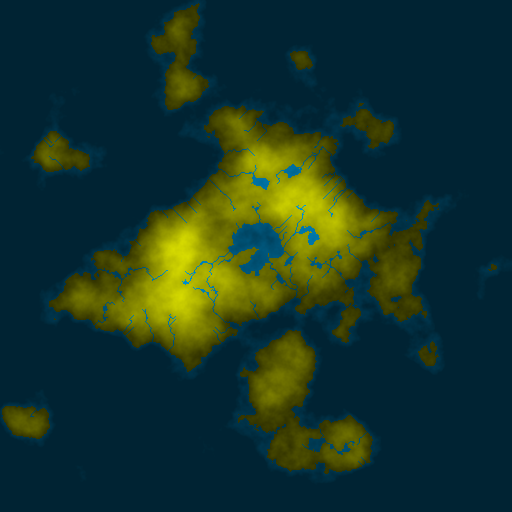
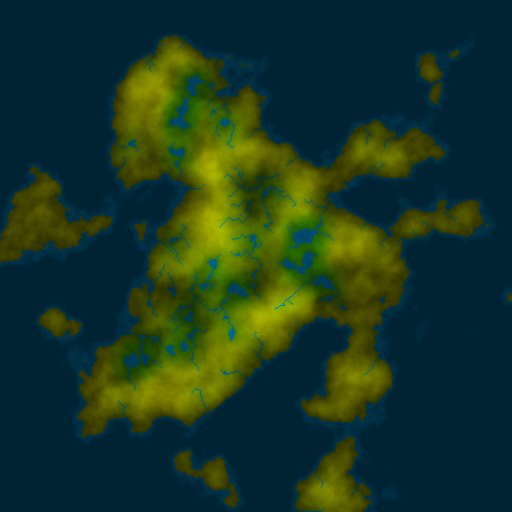
Added biomes and loading maps from images

diff --git a/TerrainMap.py b/TerrainMap.py
@@ -5,6 +5,7 @@ from MapPixel import MapPixel
 import random
 import math
 from Queue import Queue
+import time
 
 class TerrainMap:
     """A map, duh"""
@@ -41,6 +42,7 @@ class TerrainMap:
 
     def generate_rivers(self, start_height, frequency):
         print "Generating rivers..."
+        start_time = time.time()
         river_count = 0
         for x in range(len(self.mapArray)):
             for y in range(len(self.mapArray)):
@@ -51,17 +53,30 @@ class TerrainMap:
                         path = self.reconstruct_path(came_from, (x, y), goal)
                         for location in path:
                             self.mapArray[location[0]][location[1]].isWater = True
-        # print str(river_count) + " rivers created"
+        print "River generation completed. Elapsed time: " + str(time.time() - start_time)
+        print str(river_count) + " rivers created."
+
+    def calculate_biomes(self):
+        print "Calculating biomes..."
+        start_time = time.time()
+        for x in range(len(self.mapArray)):
+                for y in range(len(self.mapArray)):
+                    self.mapArray[x][y].calculate_biome()
+        print "Biomes calculated. Elapsed time: " + str(time.time() - start_time)
 
     def calculate_temperature(self):
+        print "Calculating temperature..."
+        start_time = time.time()
         #simple north = cold model (boring)
         for x in range(len(self.mapArray)):
             for y in range(len(self.mapArray)):
                 self.mapArray[x][y].temperature = float(y) / float(self.resolution)
                 self.mapArray[x][y].temperature *= 1 - (self.mapArray[x][y].height * 0.9)
+        print "Temperature calculated. Elapsed time: " + str(time.time() - start_time)
 
     def calculate_rainfall(self):
         print "Calculating rainfall..."
+        start_time = time.time()
         area = 40
         amount = 0.04
         for x in range(len(self.mapArray)):
@@ -81,6 +96,7 @@ class TerrainMap:
         for x in range(len(self.mapArray)):
             for y in range(len(self.mapArray)):
                 self.mapArray[x][y].rainfall = min(self.mapArray[x][y].rainfall, 1.0)
+        print "Rainfall calculated. Elapsed time: " + str(time.time() - start_time)
 
     def fill_map_array(self):
         for x in range(len(self.heightArray)):
@@ -94,6 +110,22 @@ class TerrainMap:
         for x in range(len(self.mapArray)):
             for y in range(len(self.mapArray)):
                 pixels[x, y] = self.mapArray[x][y].get_greyscale_color()
+        return img
+
+    def get_water_map_image(self):
+        img = Image.new('RGB', (len(self.mapArray), len(self.mapArray)), "black")
+        pixels = img.load()
+        for x in range(len(self.mapArray)):
+            for y in range(len(self.mapArray)):
+                pixels[x, y] = (0, 0, 0) if self.mapArray[x][y].isWater else (255, 255, 255)
+        return img
+
+    def get_biome_map_image(self):
+        img = Image.new('RGB', (len(self.mapArray), len(self.mapArray)), "black")
+        pixels = img.load()
+        for x in range(len(self.mapArray)):
+            for y in range(len(self.mapArray)):
+                pixels[x, y] = self.mapArray[x][y].get_biome_map_color()
         return img
 
     def get_rainfall_map_image(self):
@@ -126,6 +158,44 @@ class TerrainMap:
         print "Sea level: " + str(self.seaLevel)
         print "Map size: " + str(len(self.mapArray)) + "x" + str(len(self.mapArray[0]))
         print "**************************************"
+
+    def load_height_map(self, path):
+        self.heightArray = list()
+        height_map = Image.open(path)
+        pixels = height_map.load()
+        for x in range(height_map.size[0]):
+            self.heightArray.append(list())
+            for y in range(height_map.size[1]):
+                self.heightArray[x].append(float(pixels[x, y][0]) / 255.0)
+        self.resolution = len(self.heightArray)
+        self.mapArray = list()
+        self.fill_map_array()
+        print "Height map loaded."
+
+    def load_water_map(self, path):
+        water_map = Image.open(path)
+        pixels = water_map.load()
+        for x in range(self.resolution):
+            for y in range(self.resolution):
+                water = True if pixels[x, y][0] < 100 else False
+                self.mapArray[x][y].isWater = water
+        print "Water map loaded."
+
+    def load_rainfall_map(self, path):
+        rainfall_map = Image.open(path)
+        pixels = rainfall_map.load()
+        for x in range(self.resolution):
+            for y in range(self.resolution):
+                self.mapArray[x][y].rainfall = float(pixels[x, y][0]) / 255.0
+        print "Rainfall map loaded."
+
+    def load_temperature_map(self, path):
+        temperature_map = Image.open(path)
+        pixels = temperature_map.load()
+        for x in range(self.resolution):
+            for y in range(self.resolution):
+                self.mapArray[x][y].temperature = float(pixels[x, y][0]) / 255.0
+        print "Temperature map loaded."
 
     def find_river_path(self, start):
         frontier = Queue()
@@ -162,7 +232,6 @@ class TerrainMap:
             if iterations >= self.MAX_ITERATIONS:
                 break
             current = came_from[current]
-            print str(current)
             path.append(current)
         path.reverse()
         return path

diff --git a/MapPixel.py b/MapPixel.py
@@ -5,6 +5,7 @@ import colorsys
 class MapPixel:
     """A single unit of map terrain"""
 
+    TUNDRA, BOREAL_FOREST, COLD_DESERT, WOODLAND, TEMPERATE_FOREST, TEMPERATE_RAINFOREST, SUBTROPICAL_DESERT, SAVANNA, TROPICAL_RAINFOREST = range(9)
     waterColor = (0.55, 1.0, 0.2)
     landColor = (0.17, 1.0, 0.1)
 
@@ -14,7 +15,53 @@ class MapPixel:
         self.seaLevel = sea_level
         self.rainfall = 0.0
         self.temperature = 0.0
+        self.biome = self.TUNDRA
         self.isWater = True if self.height <= self.seaLevel else False
+
+    def calculate_biome(self):
+        if self.temperature < 0.15:
+            self.biome = self.TUNDRA
+        elif self.temperature < 0.58:
+            if self.rainfall < 0.1:
+                self.biome = self.COLD_DESERT
+            elif self.rainfall < 0.2:
+                self.biome = self.WOODLAND
+            elif self.temperature < 0.2:
+                self.biome = self.BOREAL_FOREST
+            elif self.rainfall < 0.35:
+                self.biome = self.TEMPERATE_FOREST
+            else:
+                self.biome = self.TEMPERATE_RAINFOREST
+        else:
+            if self.rainfall < 0.12:
+                self.biome = self.SUBTROPICAL_DESERT
+            elif self.rainfall < 0.45:
+                self.biome = self.SAVANNA
+            else:
+                self.biome = self.TROPICAL_RAINFOREST
+
+    def get_biome_map_color(self):
+        if self.isWater:
+            return 0, 0, 0
+        elif self.biome == self.TUNDRA:
+            return 165, 208, 230
+        elif self.biome == self.BOREAL_FOREST:
+            return 117, 209, 181
+        elif self.biome == self.COLD_DESERT:
+            return 209, 191, 117
+        elif self.biome == self.WOODLAND:
+            return 171, 78, 41
+        elif self.biome == self.TEMPERATE_FOREST:
+            return 39, 125, 46
+        elif self.biome == self.TEMPERATE_RAINFOREST:
+            return 53, 150, 61
+        elif self.biome == self.SUBTROPICAL_DESERT:
+            return 191, 158, 57
+        elif self.biome == self.SAVANNA:
+            return 149, 196, 55
+        else:
+            # TROPICAL RAIN FOREST
+            return 34, 222, 13
 
     def get_rainfall_map_color(self):
         if self.isWater:

diff --git a/LoadTest.py b/LoadTest.py
@@ -19,8 +19,9 @@ height = Modifiers.subtract(radial, noise)
 height = Modifiers.subtract(height, detailNoise)
 
 terrainMap = TerrainMap(height, 0.1)
-terrainMap.generate_rivers(0.2, 0.002)
-terrainMap.calculate_rainfall()
+terrainMap.load_height_map("height.png")
+terrainMap.load_water_map("water.png")
+terrainMap.load_rainfall_map("rainfall.png")
 terrainMap.calculate_temperature()
 terrainMap.calculate_biomes()
 
